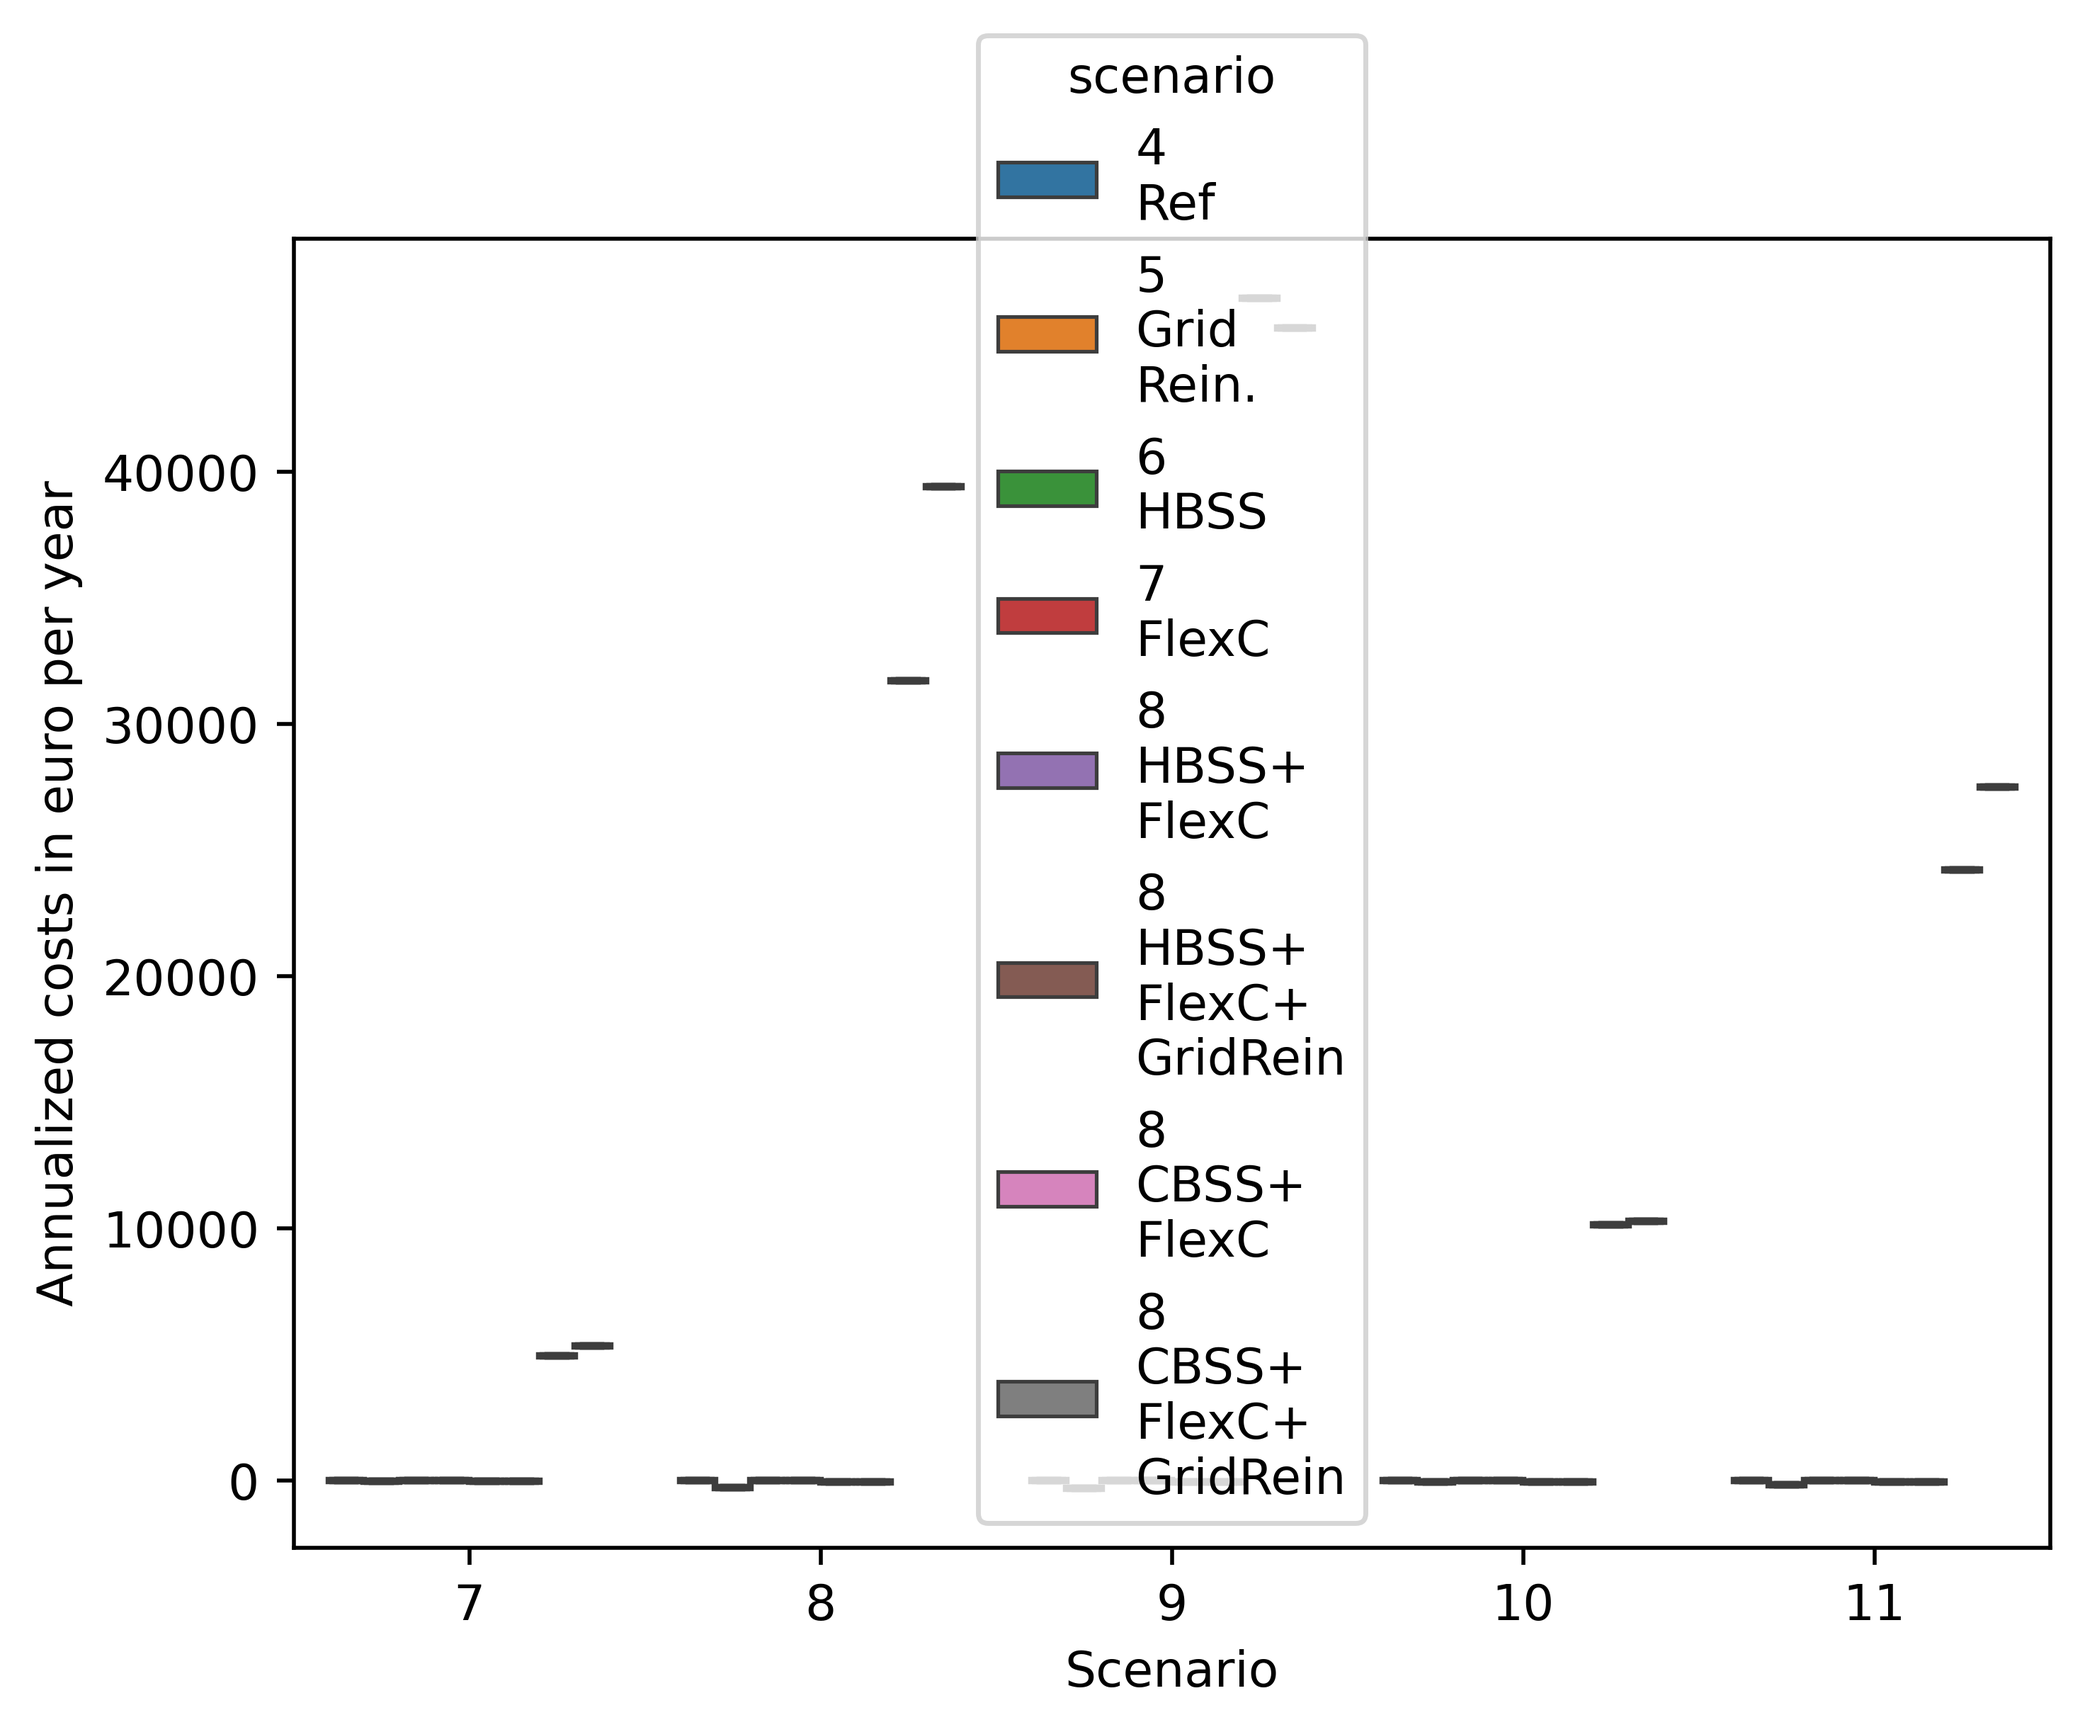
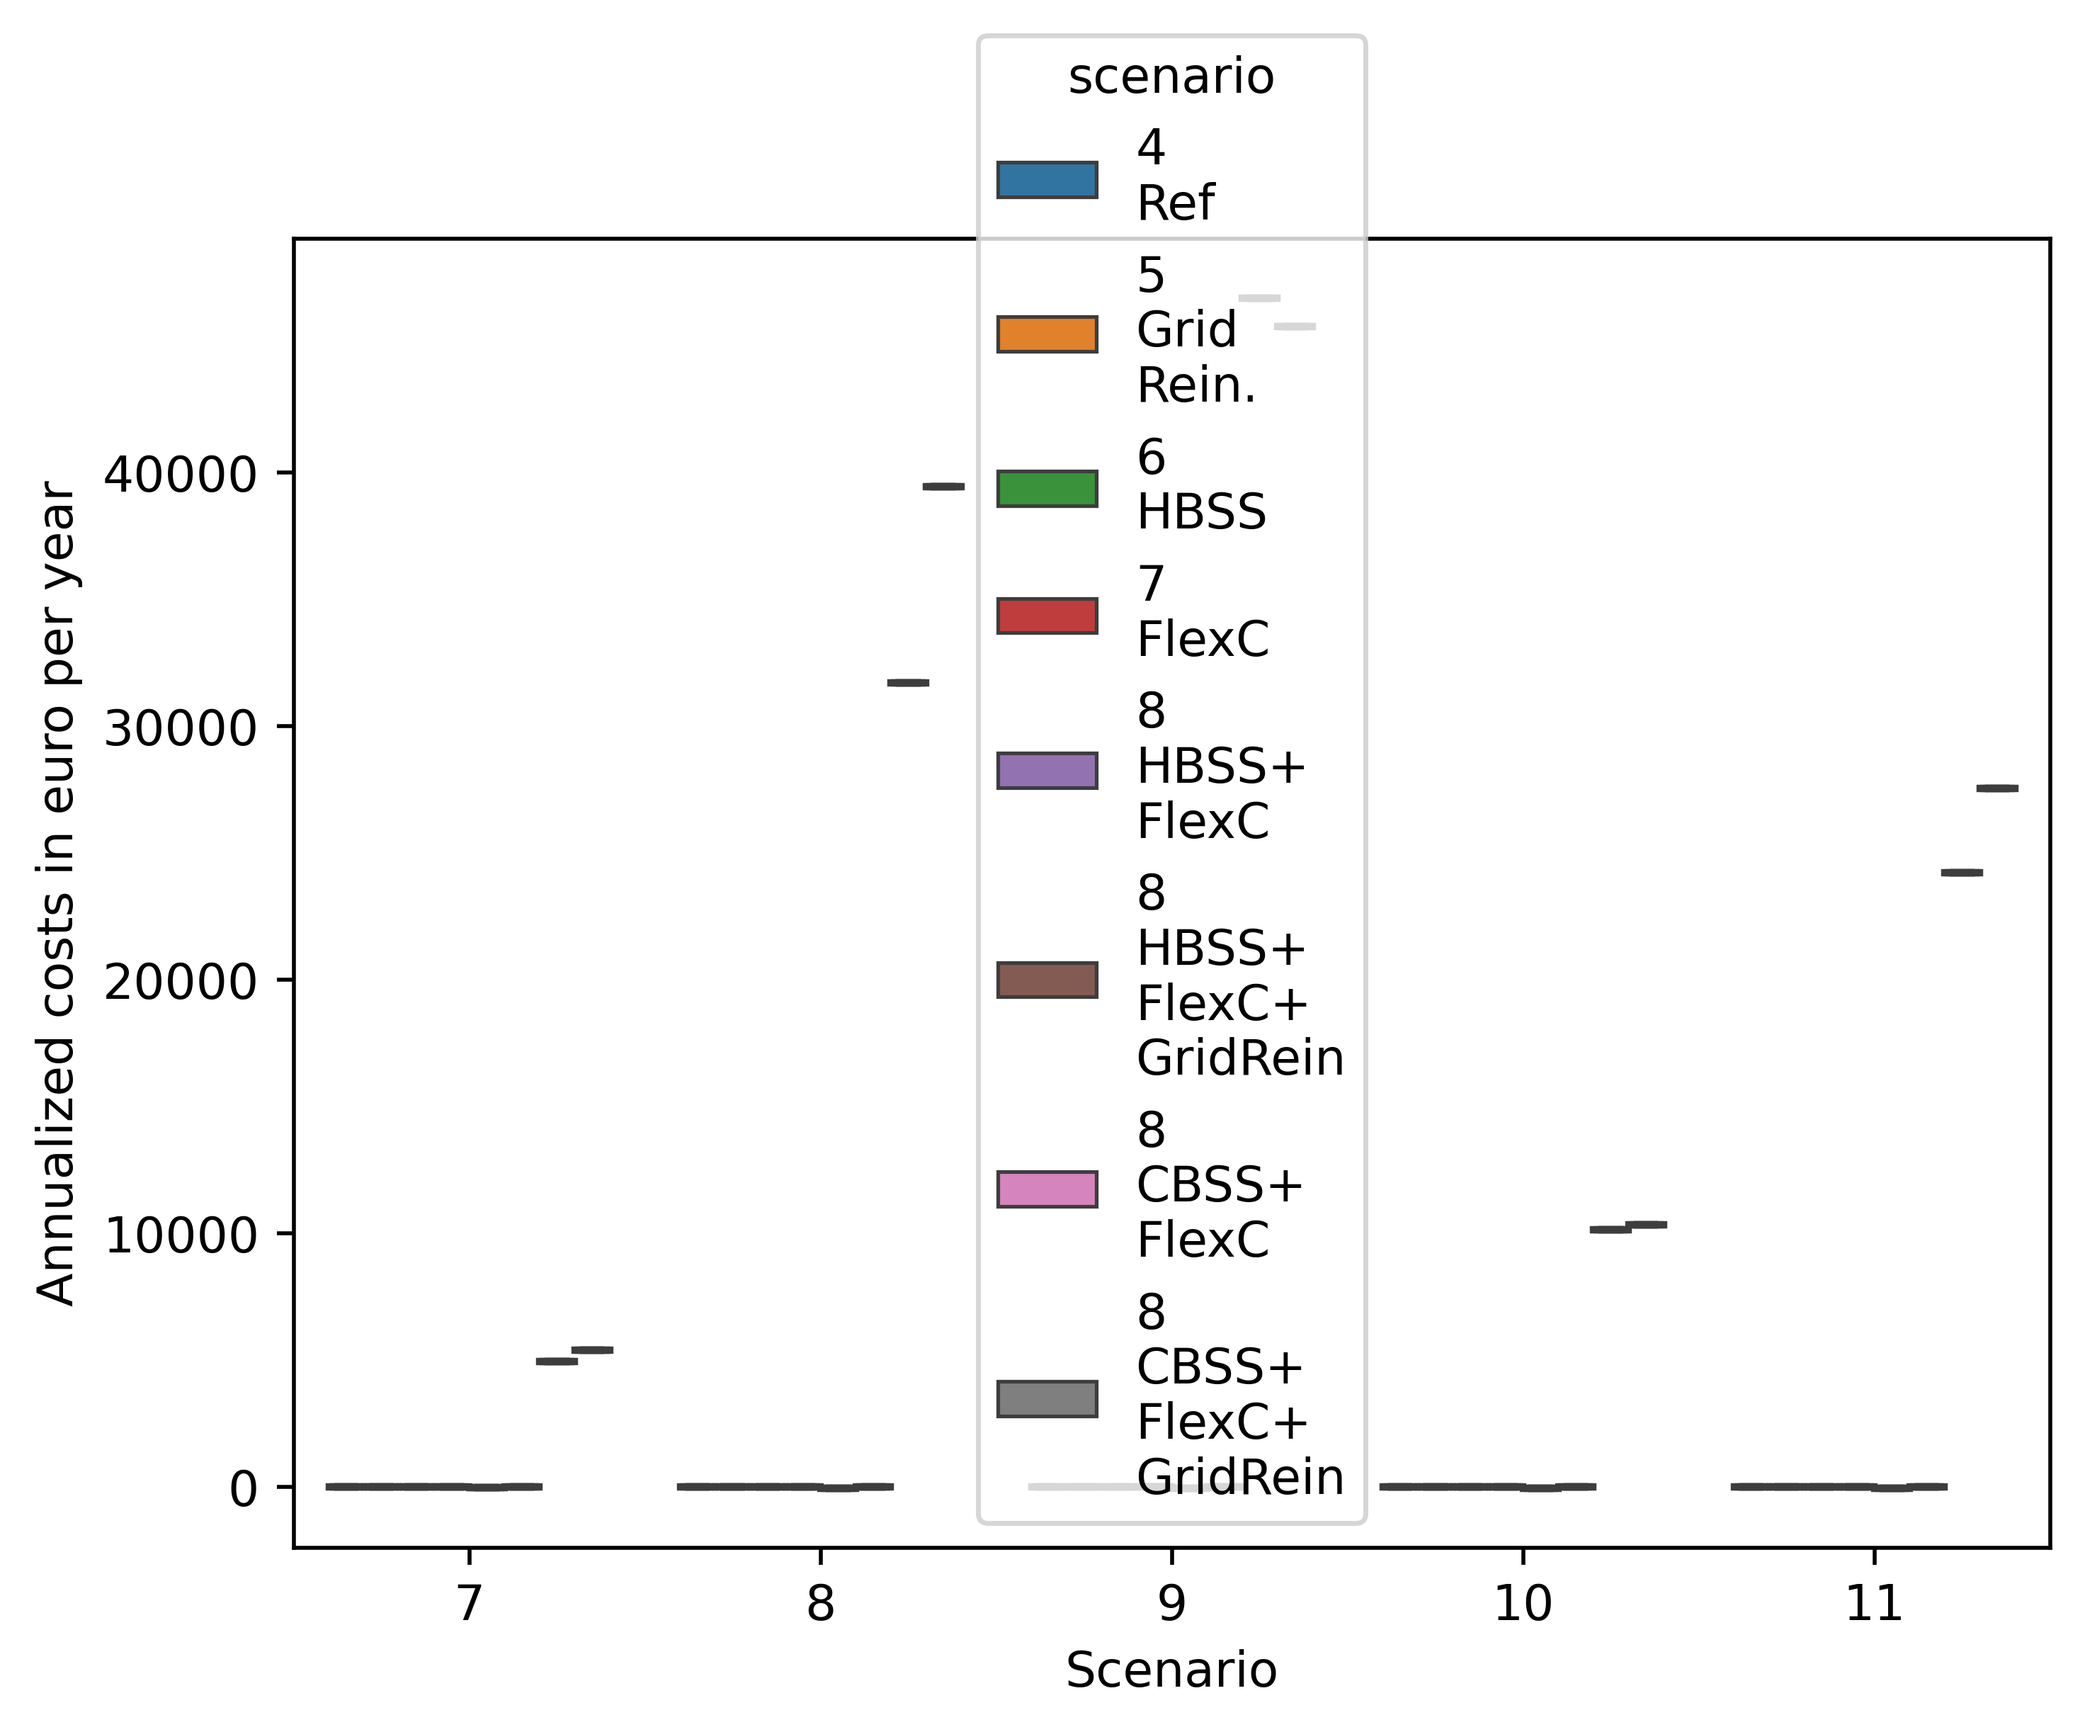
Fix opex grid expences

diff --git a/src/main_EVA_economics.py b/src/main_EVA_economics.py
@@ -282,6 +282,8 @@ def boxplot_diff_costs_reven_HH(eva, save_fig_dir=save_fig_dir):
 def boxplot_diff_costs_reven_ECM(eva, save_fig_dir=save_fig_dir):
   ref = '4101110'
 
+  print(eva['s4101101n8']['total_ECM'].sum(axis=1))
+
   df_sns = pd.DataFrame(columns=['hh', 'scenario', 'data', 'data_diff', 'grid'])
   for i in eva.keys():
     df_sns_helper = pd.DataFrame(columns=['hh', 'scenario', 'data', 'data_diff', 'grid'])
@@ -295,6 +297,8 @@ def boxplot_diff_costs_reven_ECM(eva, save_fig_dir=save_fig_dir):
       df_sns = pd.concat([df_sns, df_sns_helper])
 
   df_sns = rename_scenarios(df_sns.reset_index())
+
+  #print(df_sns)
 
   #'''
   fig1, ax1 = plt.subplots()
@@ -371,8 +375,6 @@ def bar_revenue_costs_HH(eva, save_fig_dir=save_fig_dir):
       for c in columns_reven:
         df[c].loc[k] = eva[i]['energy_reven_HH'].sum()[c]
       k += 1
-
-  print(eva[i]['total_HH'])
 
   # colors
   bright = sns.color_palette("bright", 10)
@@ -976,13 +978,13 @@ def evaluate_bss_sizing(eva, cd):
 eva = load_scenario_data(scenarios)
 
 #boxplot_diff_costs_reven_HH(eva)
-#boxplot_diff_costs_reven_ECM(eva)
+boxplot_diff_costs_reven_ECM(eva)
 #bar_revenue_costs_HH(eva)
 #bar_revenue_costs_HH_each_HH(eva)
-#bar_revenue_costs_ECM(eva)
+bar_revenue_costs_ECM(eva)
 
-cd = get_component_data(scenarios, time_scope_all_seasons)
+#cd = get_component_data(scenarios, time_scope_all_seasons)
 
-plot_dot_anu_costs_over_component_data(eva, cd)
-evaluate_bss_sizing(eva, cd)
+#plot_dot_anu_costs_over_component_data(eva, cd)
+#evaluate_bss_sizing(eva, cd)
 

diff --git a/src/main_EnergyCell.py b/src/main_EnergyCell.py
@@ -373,7 +373,7 @@ scenarios = [
         #[2,0,0,1,1,1,0],
         #[3,1,0,0,0,0,0],
         #[3,1,0,0,0,1,0],
-        #[4,1,0,1,1,0,1],
+        [4,1,0,1,1,0,1],
         #[4,1,0,1,1,0,0],
         #[4,1,0,1,1,1,0],
         #[6,1,1,1,1,0,0],
@@ -381,17 +381,17 @@ scenarios = [
         #[6,1,2,1,1,0,0],
         #[6,1,2,1,1,1,0],
         #[6,1,3,1,1,0,0],
-        [6,1,3,1,1,1,0],
+        #[6,1,3,1,1,1,0],
         #[6,1,4,1,1,0,0],
         #[6,1,4,1,1,1,0],
         #[6,1,5,1,1,0,0],
         #[6,1,5,1,1,1,0],
         #[7,1,0,3,3,0,0],
-        [7,1,0,3,3,1,0],
+        #[7,1,0,3,3,1,0],
         #[8,1,3,3,3,0,0],
-        [8,1,3,3,3,1,0],
+        #[8,1,3,3,3,1,0],
         [8,1,3,3,3,1,1],
-        [8,1,4,3,3,1,0],
+        #[8,1,4,3,3,1,0],
         [8,1,4,3,3,1,1],
                       ]
 

diff --git a/src/tools/economics/Economics.py b/src/tools/economics/Economics.py
@@ -1026,8 +1026,8 @@ class MainEconomics():
     # grid charges derived from GRID REINFORCEMENT
     line_costs, trafo_costs = self.get_grid_reinforcment_costs(include_grid_reinforce = True)
     anf_grid = calculate_anf(investment_costs['intrest_rate'], investment_costs['grid_lifespan'])
-    trafo_costs *= anf_grid
-    line_costs  *= anf_grid
+    trafo_costs *= anf_grid * (1 + parameter_economics.operating_costs['percent'])
+    line_costs  *= anf_grid * (1 + parameter_economics.operating_costs['percent'])
 
     #print("Line costs:  " + str(line_costs))
     #print("Trafo costs: " + str(trafo_costs))
